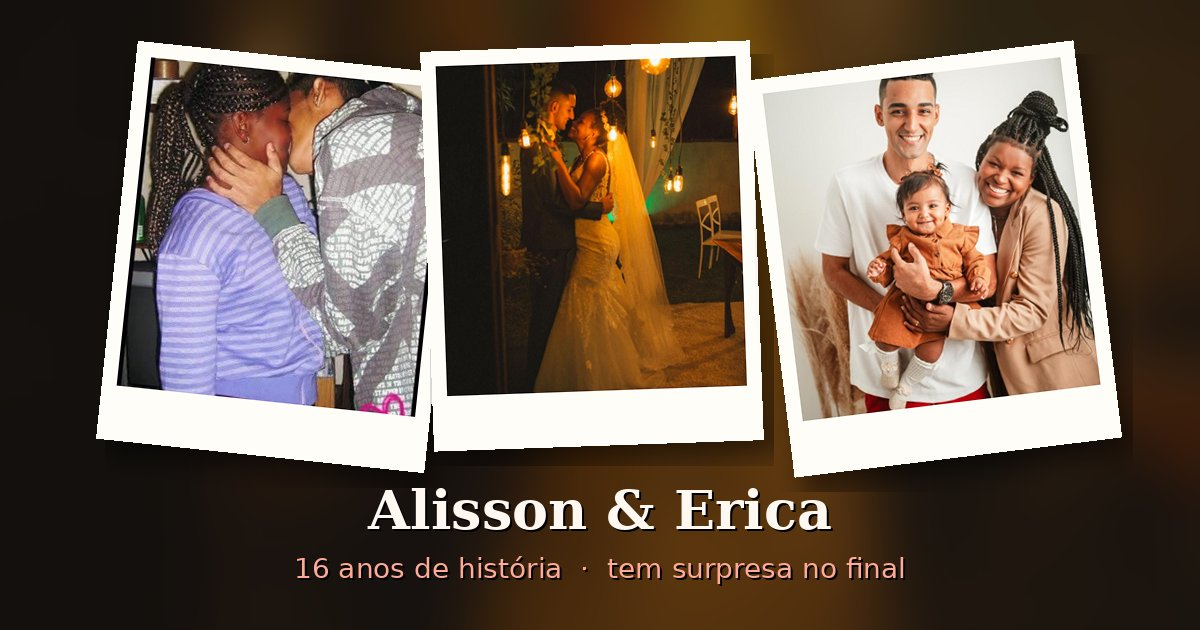
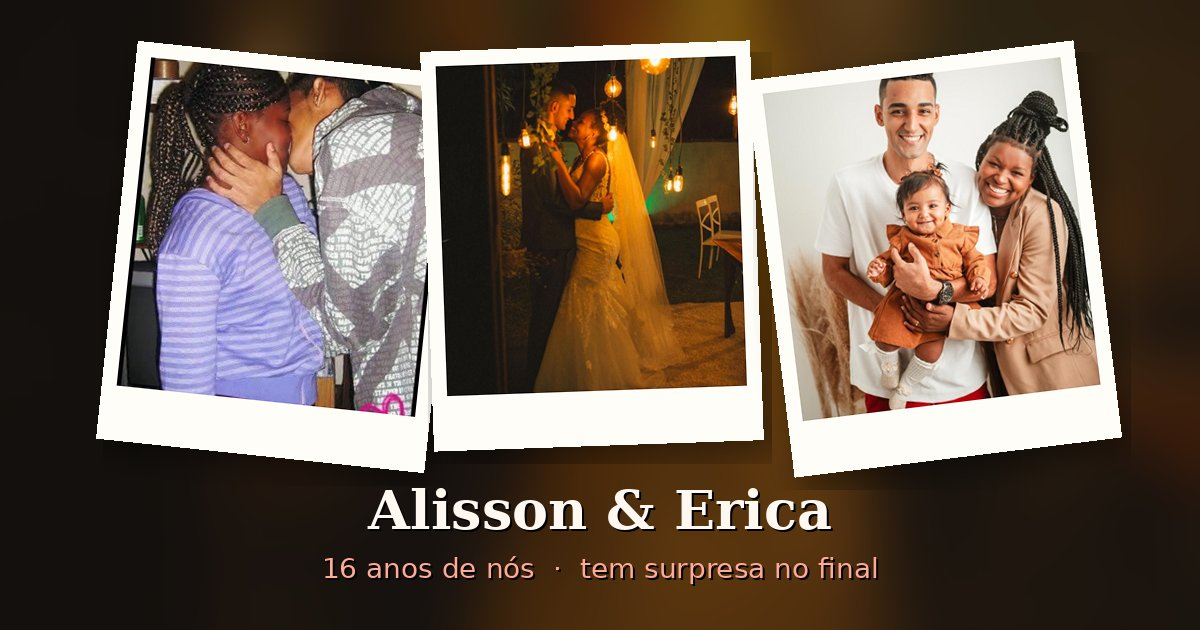
Estrutura da Érica: 5 capítulos + epílogo com subcapítulos, '16 anos de nós' e 'Nossa história continua…'
Claude-Session: https://claude.ai/code/session_014aBGtB3FhLQVdyW9ZgLCFM

Changed region(s): [[0.2467, 0.8746, 0.7708, 0.9349]]

diff --git a/app.js b/app.js
@@ -15,7 +15,8 @@ $("#nome").textContent = PESSOA.nome;
 if (PESSOA.esposa) $("#casal").textContent = "& " + PESSOA.esposa;
 $("#assinatura").textContent = [PESSOA.nome.split(" ")[0], PESSOA.esposa?.split(" ")[0], PESSOA.filha].filter(Boolean).join(", ").replace(/, ([^,]*)$/, " e $1");
 const primeiroAno = CAPITULOS.find((c) => c.ano)?.ano;
-if (primeiroAno) { const anos = new Date().getFullYear() - primeiroAno; $("#desde").textContent = `${anos} anos de história ❤`; }
+if (primeiroAno) { const anos = new Date().getFullYear() - primeiroAno; $("#desde").textContent = `${anos} ${typeof FRASE_ABERTURA !== "undefined" ? FRASE_ABERTURA : "anos de história"} ❤`; }
+if (typeof FRASE_FINAL !== "undefined") $("#frase-final").textContent = FRASE_FINAL;
 digitar($("#maquina"), primeiroAno ? `Em ${primeiroAno}, começou a história de…` : "Esta é a história de…").then(() => {
   $("#nome").classList.add("on");
   setTimeout(() => $("#casal").classList.add("on"), 700);
@@ -256,23 +257,45 @@ function antesDepois([antes, depois]) {
 
 // ---------- monta capítulos ----------
 const historia = $("#historia");
-let anoCorrente = primeiroAno || "";
+let anoCorrente = primeiroAno || "", nParte = 0, menuAtual = "";
+// tela de abertura de um capítulo grande (Capítulo I, II… e o Epílogo)
+function aberturaParte(p, foto, ano) {
+  const s = el("section", "parte");
+  s.id = p.id || "parte-" + (++nParte);
+  s.dataset.titulo = p.titulo; s.dataset.numero = p.numero;
+  s.dataset.foto = foto || ""; s.dataset.ano = ano || ""; s.dataset.menu = s.id;
+  const inn = el("div", "parte-in");
+  inn.append(el("p", "parte-num", p.numero), el("span", "parte-orn", "✦"), el("h2", "parte-titulo", p.titulo));
+  if (p.subtitulo) inn.append(el("p", "parte-sub", p.subtitulo));
+  s.append(inn);
+  return s;
+}
+const fotoDe = (c) => { const v0 = (c.videos || [])[0]; return c.fotos[0] ? leve(c.fotos[0]) : v0 ? "midia/" + v0.replace(/\.mp4$/, ".jpg") : ""; };
 CAPITULOS.forEach((c, i) => {
   if (c.ano) anoCorrente = c.ano;
-  const cap = el("section", "capitulo layout-" + c.layout);
+  if (c.parte) historia.append(aberturaParte(c.parte, fotoDe(c), c.ano));
+  const cap = el("section", "capitulo layout-" + c.layout + (c.titulo ? "" : " continuacao"));
   cap.id = "cap-" + (i + 1);
-  cap.dataset.titulo = c.titulo;
+  cap.dataset.titulo = c.titulo || "";
+  if (c.titulo) menuAtual = cap.id;
+  cap.dataset.menu = menuAtual;
   galeriaAtual = c.fotos;
   cap.dataset.ano = c.ano || "";
-  const v0 = (c.videos || [])[0];
-  cap.dataset.foto = c.fotos[0] ? leve(c.fotos[0]) : v0 ? "midia/" + v0.replace(/\.mp4$/, ".jpg") : "";
+  cap.dataset.foto = fotoDe(c);
 
-  const ab = el("header", "abertura");
-  ab.append(el("p", "num", `capítulo ${i + 1}`));
-  if (c.ano) ab.append(el("div", "marco", c.ano));
-  ab.append(el("h2", "", c.titulo));
-  if (c.frase) ab.append(el("p", "frase", c.frase));
-  cap.append(ab);
+  if (c.titulo) {
+    const ab = el("header", "abertura");
+    if (c.ano) ab.append(el("div", "marco", c.ano));
+    ab.append(el("h2", "", c.titulo));
+    if (c.frase) ab.append(el("p", "frase", c.frase));
+    cap.append(ab);
+  } else {
+    // continua o subcapítulo anterior: só um enfeite e uma legenda pequena
+    const ct = el("header", "continua");
+    ct.append(el("span", "continua-orn", "✦ ✦ ✦"));
+    if (c.rotulo) ct.append(el("p", "rotulo", c.rotulo));
+    cap.append(ct);
+  }
 
   const corpo = el("div", "corpo");
   if (c.antesDepois) corpo.append(antesDepois(c.antesDepois));
@@ -286,6 +309,9 @@ CAPITULOS.forEach((c, i) => {
   cap.append(corpo);
   historia.append(cap);
 });
+
+// epílogo: abre o grande final do aniversário
+if (typeof EPILOGO !== "undefined") $("#aniversario").before(aberturaParte({ ...EPILOGO, id: "epilogo" }, "fotos/p/" + (typeof ANIVERSARIO !== "undefined" ? ANIVERSARIO.foto : ""), ""));
 
 // ---------- nossas conquistas ----------
 (function montarConquistas() {
@@ -339,7 +365,7 @@ if (typeof VIDEO_FINAL !== "undefined" && VIDEO_FINAL) {
 const rev = new IntersectionObserver((es) => es.forEach((e) => {
   if (e.isIntersecting) { e.target.classList.add("vis"); rev.unobserve(e.target); }
 }), { threshold: .2, rootMargin: "0px 0px -8% 0px" });
-$$(".abertura, .polaroid, .cel, .tela, .destaque, .mini, .carrossel-wrap, .video-box, .ad-box, .raspa-box, .pedido, .conq").forEach((n) => rev.observe(n));
+$$(".abertura, .continua, .parte, .polaroid, .cel, .tela, .destaque, .mini, .carrossel-wrap, .video-box, .ad-box, .raspa-box, .pedido, .conq").forEach((n) => rev.observe(n));
 
 // vídeos só tocam quando visíveis (economiza bateria/dados)
 const vio = new IntersectionObserver((es) => es.forEach((e) => {
@@ -377,19 +403,19 @@ z.addEventListener("touchend", (e) => {
 // ---------- menu de capítulos ----------
 const menuBtn = $("#menu-btn"), menu = $("#menu"), menuLista = $("ol", menu);
 const irPara = (alvo) => { fecharMenu(); alvo.scrollIntoView({ behavior: calmo ? "auto" : "smooth" }); };
-$$(".capitulo").forEach((c, i) => {
-  const li = el("li"), b = el("button", "", "");
-  b.append(el("span", "mn", String(i + 1)), document.createTextNode(c.dataset.titulo));
-  b.onclick = () => irPara(c); b.dataset.alvo = c.id; li.append(b); menuLista.append(li);
+$$(".parte, .capitulo, #conquistas").forEach((s) => {
+  let li, b;
+  if (s.classList.contains("parte")) {
+    const romano = s.dataset.numero.replace(/^Capítulo\s*/i, "");
+    li = el("li", "grupo" + (s.id === "epilogo" ? " especial" : "")); b = el("button");
+    b.append(el("span", "mn", s.id === "epilogo" ? "🎂" : romano), document.createTextNode(s.dataset.titulo));
+  } else if (s.id === "conquistas") {
+    li = el("li", "sub"); b = el("button", "", "🏆 " + $("#conq-h").textContent);
+  } else if (s.dataset.titulo) {
+    li = el("li", "sub"); b = el("button", "", s.dataset.titulo);
+  } else return; // blocos de continuação não entram no menu
+  b.onclick = () => irPara(s); b.dataset.alvo = s.id; li.append(b); menuLista.append(li);
 });
-if ($("#conquistas")) {
-  const li = el("li", "especial"), b = el("button", "", "🏆 Nossas conquistas");
-  b.onclick = () => irPara($("#conquistas")); b.dataset.alvo = "conquistas"; li.append(b); menuLista.append(li);
-}
-{
-  const li = el("li", "especial"), b = el("button", "", "🎂 A surpresa");
-  b.onclick = () => irPara($("#aniversario")); b.dataset.alvo = "aniversario"; li.append(b); menuLista.append(li);
-}
 function fecharMenu() { menu.hidden = true; menuBtn.setAttribute("aria-expanded", "false"); }
 menuBtn.onclick = (e) => { e.stopPropagation(); const abrir = menu.hidden; menu.hidden = !abrir; menuBtn.setAttribute("aria-expanded", String(abrir)); };
 document.addEventListener("click", (e) => { if (!menu.hidden && !menu.contains(e.target)) fecharMenu(); });
@@ -410,13 +436,14 @@ function mostrarAno(a) {
   anoEl.textContent = a; anoEl.classList.remove("vira"); void anoEl.offsetWidth; anoEl.classList.add("vira");
 }
 trocarFundo($(".capitulo")?.dataset.foto);
-new IntersectionObserver(([e]) => { if (e.isIntersecting) marcarMenu("aniversario"); }, { rootMargin: "-45% 0px -45% 0px" }).observe($("#aniversario"));
+new IntersectionObserver(([e]) => { if (e.isIntersecting) marcarMenu("epilogo"); }, { rootMargin: "-45% 0px -45% 0px" }).observe($("#aniversario"));
 if ($("#conquistas")) new IntersectionObserver(([e]) => { if (e.isIntersecting) { marcarMenu("conquistas"); trocarFundo(leve((CONQUISTAS.find((c) => c.foto) || {}).foto || "")); } }, { rootMargin: "-45% 0px -45% 0px" }).observe($("#conquistas"));
 const capObs = new IntersectionObserver((es) => es.forEach((e) => {
   if (!e.isIntersecting) return;
-  trocarFundo(e.target.dataset.foto); mostrarAno(e.target.dataset.ano); marcarMenu(e.target.id); explodir(12);
+  trocarFundo(e.target.dataset.foto); mostrarAno(e.target.dataset.ano); marcarMenu(e.target.dataset.menu || e.target.id);
+  if (!e.target.classList.contains("continuacao")) explodir(12);
 }), { rootMargin: "-45% 0px -45% 0px" });
-$$(".capitulo").forEach((c) => capObs.observe(c));
+$$(".capitulo, .parte").forEach((c) => capObs.observe(c));
 
 addEventListener("scroll", () => {
   const max = document.documentElement.scrollHeight - innerHeight;

diff --git a/dados.js b/dados.js
@@ -9,7 +9,11 @@ const PESSOA = {
   aniversario: "",   // formato "AAAA-MM-DD"; vazio = não mostra
 };
 
-// A história é dividida em CAPÍTULOS, na ordem desta lista.
+// A história é dividida em CAPÍTULOS (partes grandes, com tela de abertura própria)
+// e SUBCAPÍTULOS, na ordem desta lista.
+//  parte   : (só no 1º subcapítulo de cada capítulo) abre um capítulo novo
+//  titulo  : título do subcapítulo — vazio ("") = continua o subcapítulo anterior
+//  rotulo  : legenda pequena, escrita à mão, para os blocos que continuam
 //  titulo  : nome do capítulo
 //  ano     : ex. 2014 (ou null se não souber) — aparece grande na abertura e no contador
 //  frase   : uma frase curta que abre o capítulo (opcional)
@@ -29,7 +33,8 @@ const VIDEO_FINAL = "retrospectiva.mp4";
 
 const CAPITULOS = [
   {
-    titulo: "O começo",
+    parte: { numero: "Capítulo I", titulo: "Quando nossos caminhos se encontraram", subtitulo: "2010 — O começo de tudo" },
+    titulo: "Tudo começou a florescer",
     ano: 2010,
     frase: "Um beijo, e tudo mudou.",
     layout: "mural",
@@ -54,7 +59,8 @@ const CAPITULOS = [
     ],
   },
   {
-    titulo: "Crescendo juntos",
+    titulo: "",
+    rotulo: "e fomos crescendo juntos",
     ano: null,
     frase: "",
     layout: "mosaico",
@@ -75,7 +81,7 @@ const CAPITULOS = [
     ],
   },
   {
-    titulo: "Uma conquista",
+    titulo: "Um sonho que virou realidade",
     ano: null,
     frase: "",
     layout: "destaque",
@@ -84,7 +90,8 @@ const CAPITULOS = [
     ],
   },
   {
-    titulo: "O pedido",
+    parte: { numero: "Capítulo II", titulo: "Escolher você, todos os dias", subtitulo: "O casamento e a nossa promessa" },
+    titulo: "O começo de um para sempre",
     ano: null,
     frase: "Quer casar comigo?",
     layout: "pedido",
@@ -92,7 +99,8 @@ const CAPITULOS = [
     fotos: [],
   },
   {
-    titulo: "O ensaio",
+    titulo: "",
+    rotulo: "nosso ensaio",
     ano: null,
     frase: "",
     layout: "telacheia",
@@ -103,7 +111,7 @@ const CAPITULOS = [
     ],
   },
   {
-    titulo: "O casamento",
+    titulo: "O dia em que dissemos sim",
     ano: null,
     frase: "",
     layout: "carrossel",
@@ -121,7 +129,8 @@ const CAPITULOS = [
     ],
   },
   {
-    titulo: "Mais aventuras",
+    titulo: "",
+    rotulo: "e as aventuras continuaram",
     ano: null,
     frase: "",
     layout: "mural",
@@ -139,9 +148,10 @@ const CAPITULOS = [
     ],
   },
   {
-    titulo: "A notícia",
+    parte: { numero: "Capítulo III", titulo: "O amor que já não cabia em dois", subtitulo: "A espera pela Manu" },
+    titulo: "Uma nova vida a caminho",
     ano: null,
-    frase: "Uma mensagem que mudou tudo…",
+    frase: "",
     layout: "raspadinha",
     revelacao: "Oi, papai! 💗",
     fotos: [
@@ -149,7 +159,8 @@ const CAPITULOS = [
     ],
   },
   {
-    titulo: "A espera",
+    titulo: "",
+    rotulo: "a espera",
     ano: null,
     frase: "",
     layout: "telacheia",
@@ -161,7 +172,8 @@ const CAPITULOS = [
     ],
   },
   {
-    titulo: "A Manuella chegou",
+    parte: { numero: "Capítulo IV", titulo: "O nosso maior presente", subtitulo: "A chegada da nossa filha" },
+    titulo: "O amor ganhou um novo nome",
     ano: null,
     frase: "",
     layout: "destaque",
@@ -177,7 +189,8 @@ const CAPITULOS = [
     ],
   },
   {
-    titulo: "Nossa família",
+    parte: { numero: "Capítulo V", titulo: "A vida que sonhamos e construímos", subtitulo: "Nossa família, nossas conquistas" },
+    titulo: "Nosso mundo em três corações",
     ano: null,
     frase: "",
     layout: "mosaico",
@@ -211,7 +224,8 @@ const CAPITULOS = [
     ],
   },
   {
-    titulo: "Por aí, nós três",
+    titulo: "",
+    rotulo: "por aí, nós três",
     ano: null,
     frase: "",
     layout: "videos",
@@ -230,7 +244,8 @@ const CAPITULOS = [
     fotos: [],
   },
   {
-    titulo: "Hoje",
+    titulo: "",
+    rotulo: "hoje",
     ano: null,
     frase: "",
     layout: "carrossel",
@@ -247,6 +262,13 @@ const CAPITULOS = [
     ],
   },
 ];
+
+// ============================================================
+//  EPÍLOGO (abre o grande final) e frase de encerramento
+// ============================================================
+const EPILOGO = { numero: "Epílogo", titulo: "E ainda é só o começo", subtitulo: "Uma carta para o amor da minha vida" };
+const FRASE_FINAL = "Nossa história continua…";
+const FRASE_ABERTURA = "anos de nós";   // aparece como "16 anos de nós" (o número é calculado)
 
 // ============================================================
 //  NOSSAS CONQUISTAS — troféus que ele toca para desbloquear

diff --git a/estilo.css b/estilo.css
@@ -369,3 +369,38 @@ img{display:block}
   .conq{opacity:1;transform:none}
   .conq-frente::after,.conq-final.on{animation:none!important}
 }
+
+/* ---------- capítulos grandes (partes) ---------- */
+.parte{min-height:100svh;display:grid;place-items:center;padding:12vh 16px;text-align:center;position:relative}
+.parte::before{content:"";position:absolute;inset:0;background:radial-gradient(ellipse at center,rgba(0,0,0,.15),rgba(10,6,5,.65));pointer-events:none}
+.parte-in{position:relative;max-width:820px;display:flex;flex-direction:column;align-items:center}
+.parte-num{font:600 clamp(.85rem,2.4vw,1rem) Inter,sans-serif;letter-spacing:.45em;text-transform:uppercase;color:#ffd23f;margin:0;
+  opacity:0;transform:translateY(16px);transition:1s ease}
+.parte-orn{display:flex;align-items:center;gap:.9rem;color:#ffd23f;font-size:.9rem;margin:1.2rem 0;opacity:0;transition:1s ease .3s}
+.parte-orn::before,.parte-orn::after{content:"";width:0;height:1px;background:linear-gradient(90deg,transparent,#ffd23f);transition:width 1.2s ease .4s}
+.parte-orn::after{background:linear-gradient(270deg,transparent,#ffd23f)}
+.parte-titulo{font:italic 500 clamp(2.3rem,7.5vw,4.8rem)/1.12 "Playfair Display",serif;margin:0;text-wrap:balance;
+  opacity:0;transform:translateY(24px) scale(.97);transition:opacity 1.2s ease .5s,transform 1.4s cubic-bezier(.2,.8,.2,1) .5s}
+.parte-sub{font:600 clamp(1.4rem,4.4vw,2rem) Caveat,cursive;color:#ff8a7a;margin:1.2rem 0 0;opacity:0;transition:1s ease 1.1s}
+.parte.vis .parte-num,.parte.vis .parte-titulo{opacity:1;transform:none}
+.parte.vis .parte-orn,.parte.vis .parte-sub{opacity:1}
+.parte.vis .parte-orn::before,.parte.vis .parte-orn::after{width:clamp(50px,14vw,110px)}
+#epilogo .parte-num{color:#ff8fb1}
+
+/* ---------- subcapítulos que continuam ---------- */
+.capitulo.continuacao{padding-top:2vh}
+.continua{display:flex;flex-direction:column;align-items:center;gap:.4rem;margin:0 auto 2.4rem;text-align:center;opacity:0;transform:translateY(20px);transition:1s ease}
+.continua.vis{opacity:1;transform:none}
+.continua-orn{color:#ffd23f;font-size:.8rem;letter-spacing:.6em;opacity:.75}
+.rotulo{font:600 clamp(1.5rem,4.6vw,2.1rem) Caveat,cursive;color:#ff8a7a;margin:0}
+
+/* menu com capítulos e subcapítulos */
+.menu .grupo button{font-weight:600;color:#fff3d6;margin-top:.35rem}
+.menu .grupo:first-child button{margin-top:0}
+.menu .grupo .mn{background:rgba(255,210,63,.18);color:#ffd23f;font-weight:700}
+.menu .sub button{padding-left:3.1rem;font-size:.92rem;color:rgba(255,248,240,.82)}
+.menu .grupo.especial button{border-top:1px solid rgba(255,255,255,.1);border-radius:0 0 10px 10px;margin-top:.5rem;color:#ffd23f}
+@media (prefers-reduced-motion:reduce){
+  .parte-num,.parte-orn,.parte-titulo,.parte-sub,.continua{opacity:1!important;transform:none!important}
+  .parte-orn::before,.parte-orn::after{width:80px!important}
+}

diff --git a/index.html b/index.html
@@ -3,13 +3,13 @@
 <head>
 <meta charset="utf-8">
 <meta name="viewport" content="width=device-width, initial-scale=1">
-<title>Alisson — Nossa História</title>
-<meta name="description" content="16 anos de história de Alisson e Erica, contados em fotos e vídeos. Tem surpresa no final 🎂">
+<title>Alisson & Erica — 16 anos de nós</title>
+<meta name="description" content="16 anos de nós: a história de Alisson e Erica em fotos e vídeos. Tem surpresa no final 🎂">
 <meta name="theme-color" content="#120d0b">
 <meta property="og:type" content="website">
 <meta property="og:url" content="https://alisson-theta.vercel.app/">
-<meta property="og:title" content="Alisson & Erica — Nossa História">
-<meta property="og:description" content="16 anos de história contados em fotos e vídeos. Tem surpresa no final 🎂">
+<meta property="og:title" content="Alisson & Erica — 16 anos de nós">
+<meta property="og:description" content="A nossa história em fotos e vídeos. Tem surpresa no final 🎂">
 <meta property="og:image" content="https://alisson-theta.vercel.app/fotos/og.jpg">
 <meta property="og:image:width" content="1200">
 <meta property="og:image:height" content="630">
@@ -41,8 +41,8 @@
 <main id="historia"></main>
 
 <section id="conquistas" class="conquistas" aria-labelledby="conq-h">
-  <p class="num">capítulo especial</p>
-  <h2 id="conq-h">Nossas conquistas</h2>
+  <p class="num">nossas conquistas</p>
+  <h2 id="conq-h">Tudo o que construímos juntos</h2>
   <p class="conq-sub">toque nos troféus para desbloquear 🏆</p>
   <div class="conq-progresso" aria-live="polite"><span class="conq-barra"><i></i></span><b id="conq-cont">0</b> de <b id="conq-total">0</b></div>
   <div class="conq-grade" id="conq-grade"></div>
@@ -95,7 +95,7 @@
 
 <section class="cena fim">
   <div id="final-video"></div>
-  <p class="maquina">…e a história continua.</p>
+  <p class="maquina" id="frase-final">Nossa história continua…</p>
   <p class="assinatura" id="assinatura"></p>
   <button id="replay">↺ ver de novo</button>
 </section>
